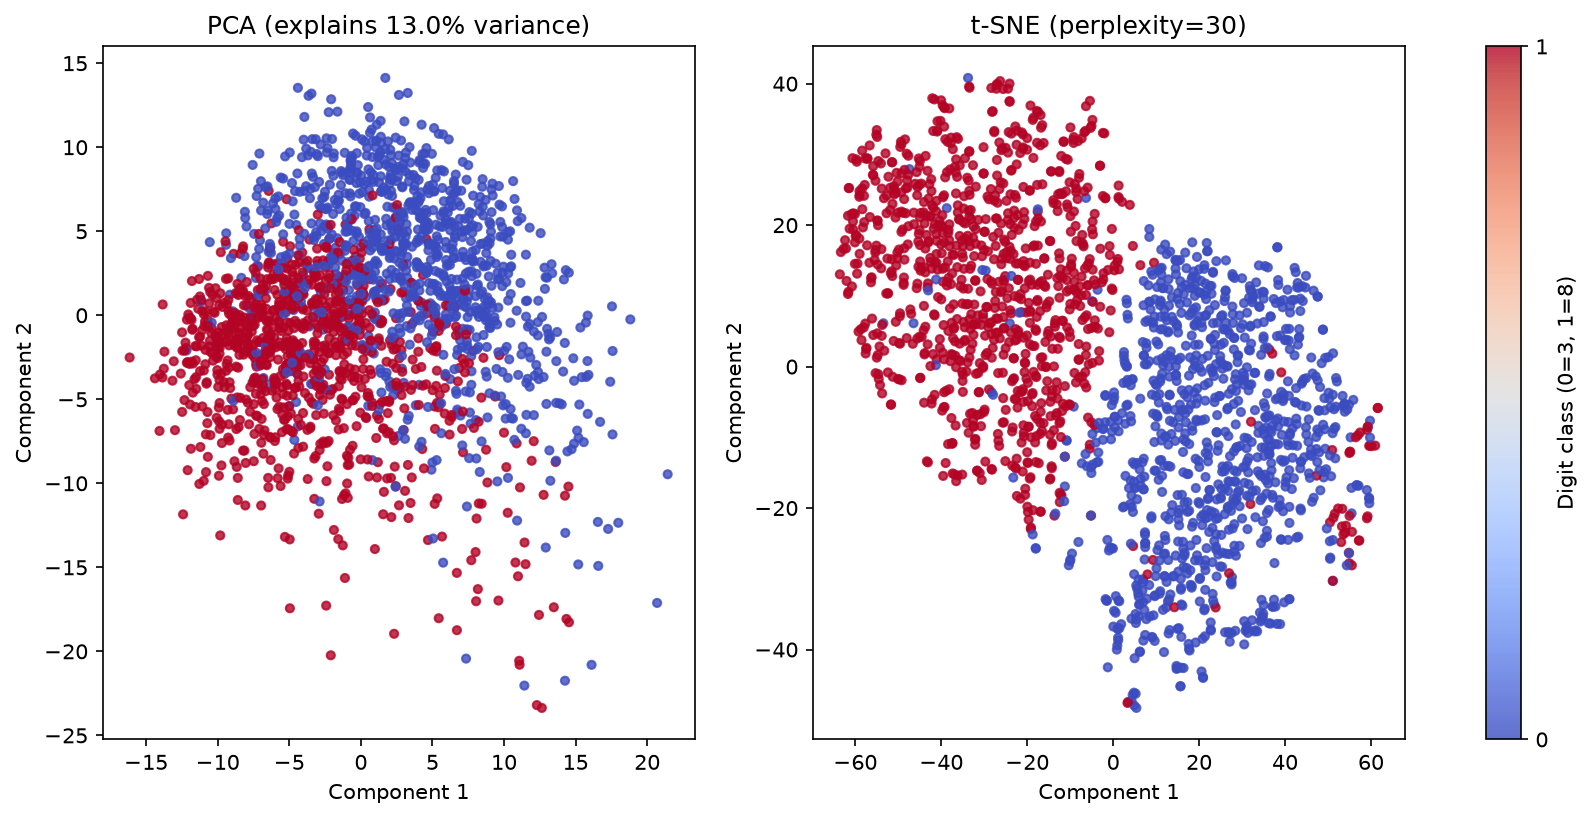
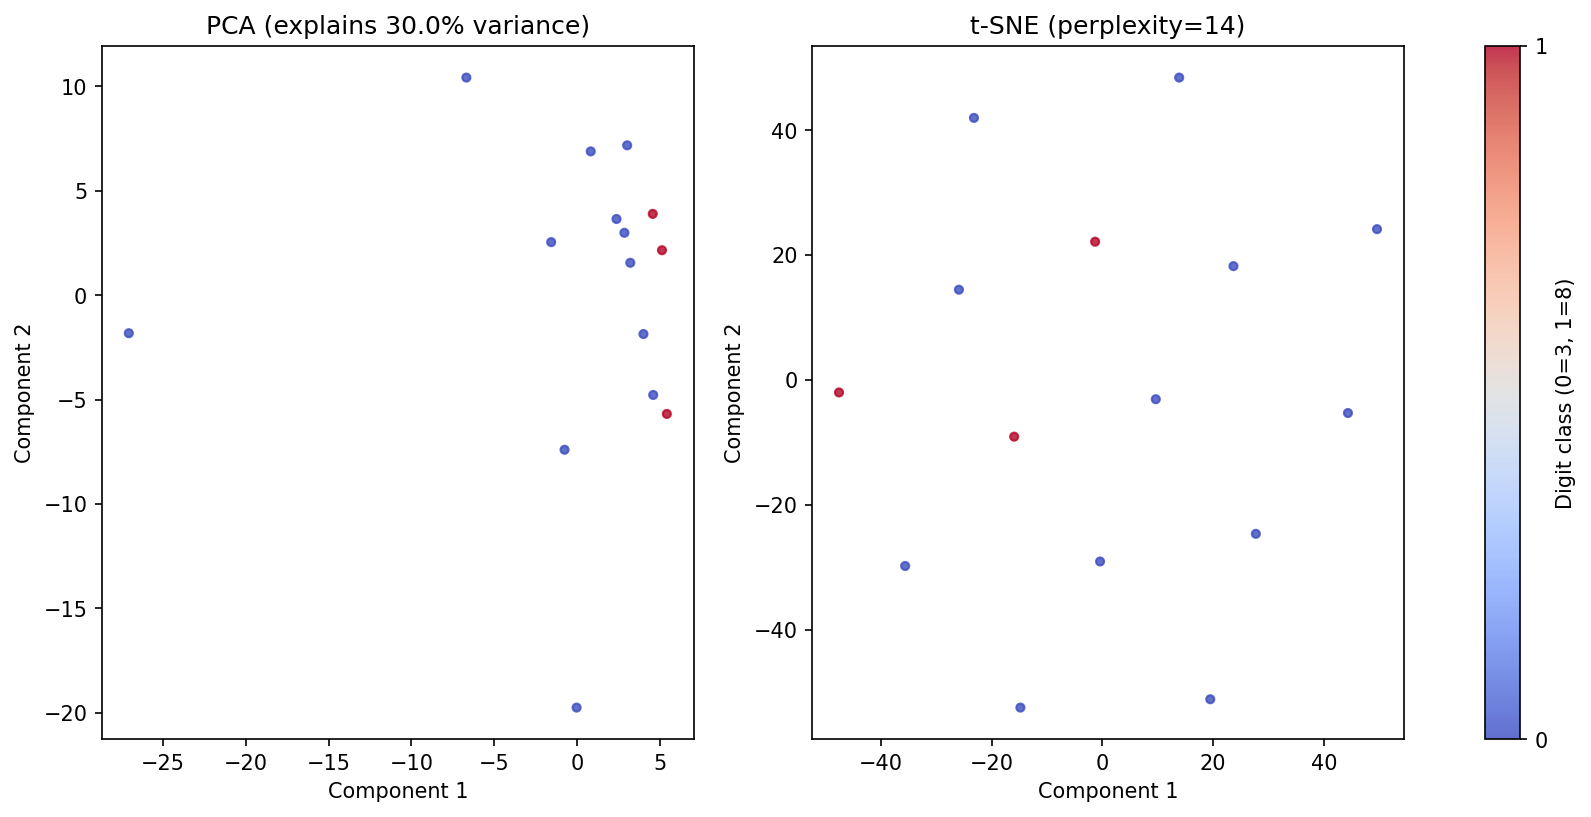
some test fixes

diff --git a/src/unsupervised/tsne_comparison.py b/src/unsupervised/tsne_comparison.py
@@ -9,65 +9,75 @@ Outputs:
 
 import os
 import time
+import numpy as np
 import matplotlib.pyplot as plt
 from src.unsupervised.pca import PCA
 from sklearn.manifold import TSNE  # type: ignore
 from src.utils.preprocessing import load_mnist_subset, standardize
 
-# ---------------------------------------------------------------
-# 1. Load data
-# ---------------------------------------------------------------
-# Load 2-class MNIST subset
-X, y = load_mnist_subset(n_samples=2000, classes=("3", "8"), random_state=42)
+def run_tsne_comparison(n_samples: int = 2000, save_plot: bool = True) -> tuple[np.ndarray, np.ndarray]:
+    """Compare PCA and t-SNE on a subset of MNIST."""
+    # ---------------------------------------------------------------
+    # 1. Load data
+    # ---------------------------------------------------------------
+    # Load 2-class MNIST subset
+    X, y = load_mnist_subset(n_samples=n_samples, classes=("3", "8"), random_state=42)
 
-# Standardize features
-X_scaled, _ = standardize(X, X)
+    # Standardize features
+    X_scaled, _ = standardize(X, X)
 
-# ---------------------------------------------------------------
-# 2. PCA: linear, deterministic, fast, preserves global variance
-# ---------------------------------------------------------------
-t0 = time.time()
-pca = PCA(n_components=2)
-X_pca = pca.fit_transform(X_scaled)
-t_pca = time.time() - t0
+    # ---------------------------------------------------------------
+    # 2. PCA: linear, deterministic, fast, preserves global variance
+    # ---------------------------------------------------------------
+    t0 = time.time()
+    pca = PCA(n_components=2)
+    X_pca = pca.fit_transform(X_scaled)
+    t_pca = time.time() - t0
 
-assert pca.explained_variance_ratio_ is not None
-explained_var = pca.explained_variance_ratio_.sum()
-print(f"PCA: {t_pca:.3f}s | explained variance (2 comps): {explained_var:.2%}")
+    assert pca.explained_variance_ratio_ is not None
+    explained_var = pca.explained_variance_ratio_.sum()
+    print(f"PCA: {t_pca:.3f}s | explained variance (2 comps): {explained_var:.2%}")
 
-# ---------------------------------------------------------------
-# 3. t-SNE: non-linear, stochastic, preserves local neighborhoods
-# ---------------------------------------------------------------
-t0 = time.time()
-tsne = TSNE(
-    n_components=2,
-    perplexity=30,
-    learning_rate="auto",
-    init="pca",          
-    random_state=42,
-    max_iter=1000,
-)
-X_tsne = tsne.fit_transform(X_scaled)
-t_tsne = time.time() - t0
+    # ---------------------------------------------------------------
+    # 3. t-SNE: non-linear, stochastic, preserves local neighborhoods
+    # ---------------------------------------------------------------
+    t0 = time.time()
+    tsne = TSNE(
+        n_components=2,
+        perplexity=min(30, n_samples - 1),
+        learning_rate="auto",
+        init="pca",          
+        random_state=42,
+        max_iter=1000,
+    )
+    X_tsne = tsne.fit_transform(X_scaled)
+    t_tsne = time.time() - t0
 
-print(f"t-SNE: {t_tsne:.3f}s | KL divergence: {tsne.kl_divergence_:.3f}")
+    print(f"t-SNE: {t_tsne:.3f}s | KL divergence: {tsne.kl_divergence_:.3f}")
 
-# ---------------------------------------------------------------
-# 4. Plot side by side
-# ---------------------------------------------------------------
-fig, axes = plt.subplots(1, 2, figsize=(14, 6))
+    # ---------------------------------------------------------------
+    # 4. Plot side by side
+    # ---------------------------------------------------------------
+    if save_plot:
+        fig, axes = plt.subplots(1, 2, figsize=(14, 6))
 
-for ax, X_2d, title in zip(
-    axes,
-    [X_pca, X_tsne],
-    [f"PCA (explains {explained_var:.1%} variance)", "t-SNE (perplexity=30)"],
-):
-    scatter = ax.scatter(X_2d[:, 0], X_2d[:, 1], c=y, cmap="coolwarm", s=15, alpha=0.8)
-    ax.set_title(title)
-    ax.set_xlabel("Component 1")
-    ax.set_ylabel("Component 2")
+        for ax, X_2d, title in zip(
+            axes,
+            [X_pca, X_tsne],
+            [f"PCA (explains {explained_var:.1%} variance)", f"t-SNE (perplexity={min(30, n_samples - 1)})"],
+        ):
+            scatter = ax.scatter(X_2d[:, 0], X_2d[:, 1], c=y, cmap="coolwarm", s=15, alpha=0.8)
+            ax.set_title(title)
+            ax.set_xlabel("Component 1")
+            ax.set_ylabel("Component 2")
 
-fig.colorbar(scatter, ax=axes, label="Digit class (0=3, 1=8)", ticks=[0, 1])
-os.makedirs("figures", exist_ok=True)
-plt.savefig("figures/pca_vs_tsne.png", dpi=150, bbox_inches="tight")
-print("Saved figures/pca_vs_tsne.png")
+        fig.colorbar(scatter, ax=axes, label="Digit class (0=3, 1=8)", ticks=[0, 1])
+        os.makedirs("figures", exist_ok=True)
+        plt.savefig("figures/pca_vs_tsne.png", dpi=150, bbox_inches="tight")
+        print("Saved figures/pca_vs_tsne.png")
+
+    return X_pca, X_tsne
+
+
+if __name__ == "__main__":
+    run_tsne_comparison()

diff --git a/download_data.py b/download_data.py
@@ -1,0 +1,55 @@
+import os
+import urllib.request
+import gzip
+from sklearn.datasets import fetch_openml
+
+def main():
+    data_dir = "data"
+    os.makedirs(data_dir, exist_ok=True)
+    
+    # 1. Breast Cancer Wisconsin
+    wdbc_url = "https://archive.ics.uci.edu/ml/machine-learning-databases/breast-cancer-wisconsin/wdbc.data"
+    wdbc_path = os.path.join(data_dir, "wdbc.data")
+    if not os.path.exists(wdbc_path):
+        print("==> Downloading Breast Cancer dataset...")
+        urllib.request.urlretrieve(wdbc_url, wdbc_path)
+        print(f"    Saved to {wdbc_path}")
+        
+    # 2. Adult Income
+    adult_data_url = "https://archive.ics.uci.edu/ml/machine-learning-databases/adult/adult.data"
+    adult_test_url = "https://archive.ics.uci.edu/ml/machine-learning-databases/adult/adult.test"
+    adult_data_path = os.path.join(data_dir, "adult.data")
+    adult_test_path = os.path.join(data_dir, "adult.test")
+    
+    if not os.path.exists(adult_data_path):
+        print("==> Downloading Adult Income training dataset...")
+        urllib.request.urlretrieve(adult_data_url, adult_data_path)
+        print(f"    Saved to {adult_data_path}")
+    if not os.path.exists(adult_test_path):
+        print("==> Downloading Adult Income testing dataset...")
+        urllib.request.urlretrieve(adult_test_url, adult_test_path)
+        print(f"    Saved to {adult_test_path}")
+        
+    # 3. Covertype
+    cov_path = os.path.join(data_dir, "covtype.data")
+    if not os.path.exists(cov_path):
+        print("==> Downloading Covertype dataset (approx. 11MB compressed)...")
+        cov_gz_path = os.path.join(data_dir, "covtype.data.gz")
+        cov_gz_url = "https://archive.ics.uci.edu/ml/machine-learning-databases/covtype/covtype.data.gz"
+        urllib.request.urlretrieve(cov_gz_url, cov_gz_path)
+        print("==> Extracting Covertype dataset...")
+        with gzip.open(cov_gz_path, 'rb') as f_in:
+            with open(cov_path, 'wb') as f_out:
+                f_out.write(f_in.read())
+        os.remove(cov_gz_path)
+        print(f"    Extracted and saved to {cov_path}")
+        
+    # 4. Trigger fetch_openml for MNIST to ensure local sklearn cache is populated
+    print("==> Populating MNIST sklearn cache...")
+    fetch_openml("mnist_784", version=1, as_frame=False, parser="auto")
+    print("    MNIST cache populated.")
+    
+    print("\nAll datasets are downloaded and ready in ./data/")
+
+if __name__ == "__main__":
+    main()

diff --git a/tests/test_tsne_comparison.py b/tests/test_tsne_comparison.py
@@ -1,6 +1,7 @@
 import numpy as np
 from src.unsupervised.pca import PCA
 from sklearn.manifold import TSNE
+from src.unsupervised.tsne_comparison import run_tsne_comparison
 
 
 def test_tsne_and_pca_integration():
@@ -15,3 +16,12 @@ def test_tsne_and_pca_integration():
     tsne = TSNE(n_components=2, perplexity=10, random_state=42)
     X_tsne = tsne.fit_transform(X)
     assert X_tsne.shape == (50, 2)
+
+
+def test_run_tsne_comparison():
+    # Test execution on a tiny MNIST-like subset with plotting covered
+    X_pca, X_tsne = run_tsne_comparison(n_samples=15, save_plot=True)
+    assert X_pca.shape == (15, 2)
+    assert X_tsne.shape == (15, 2)
+
+